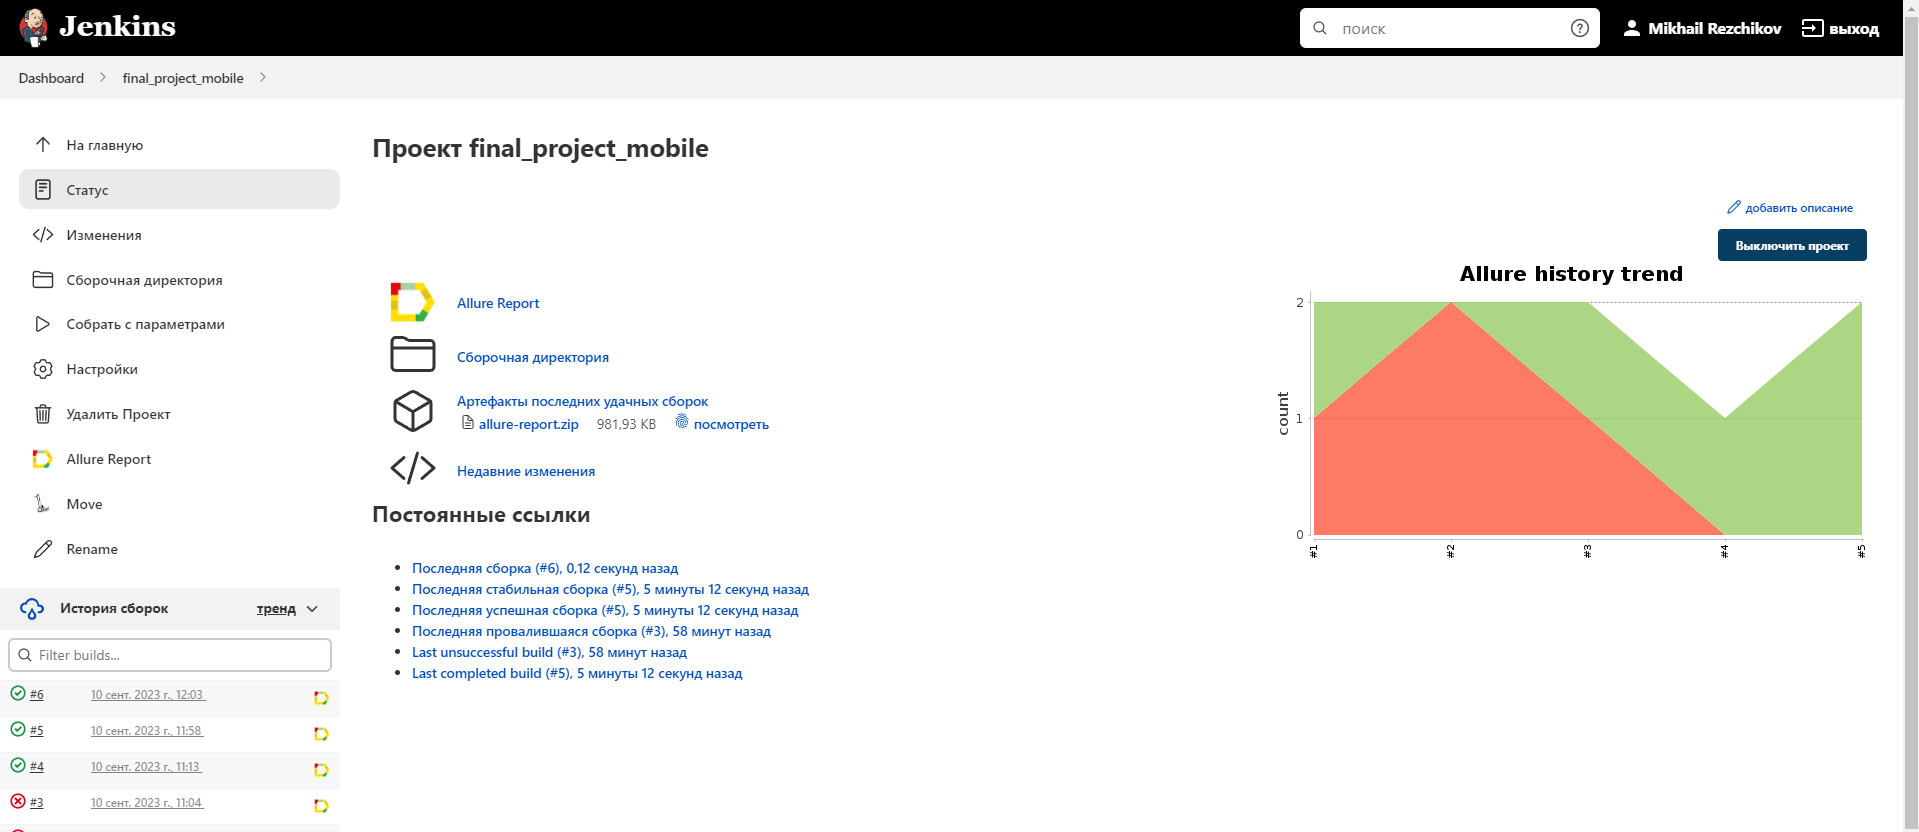
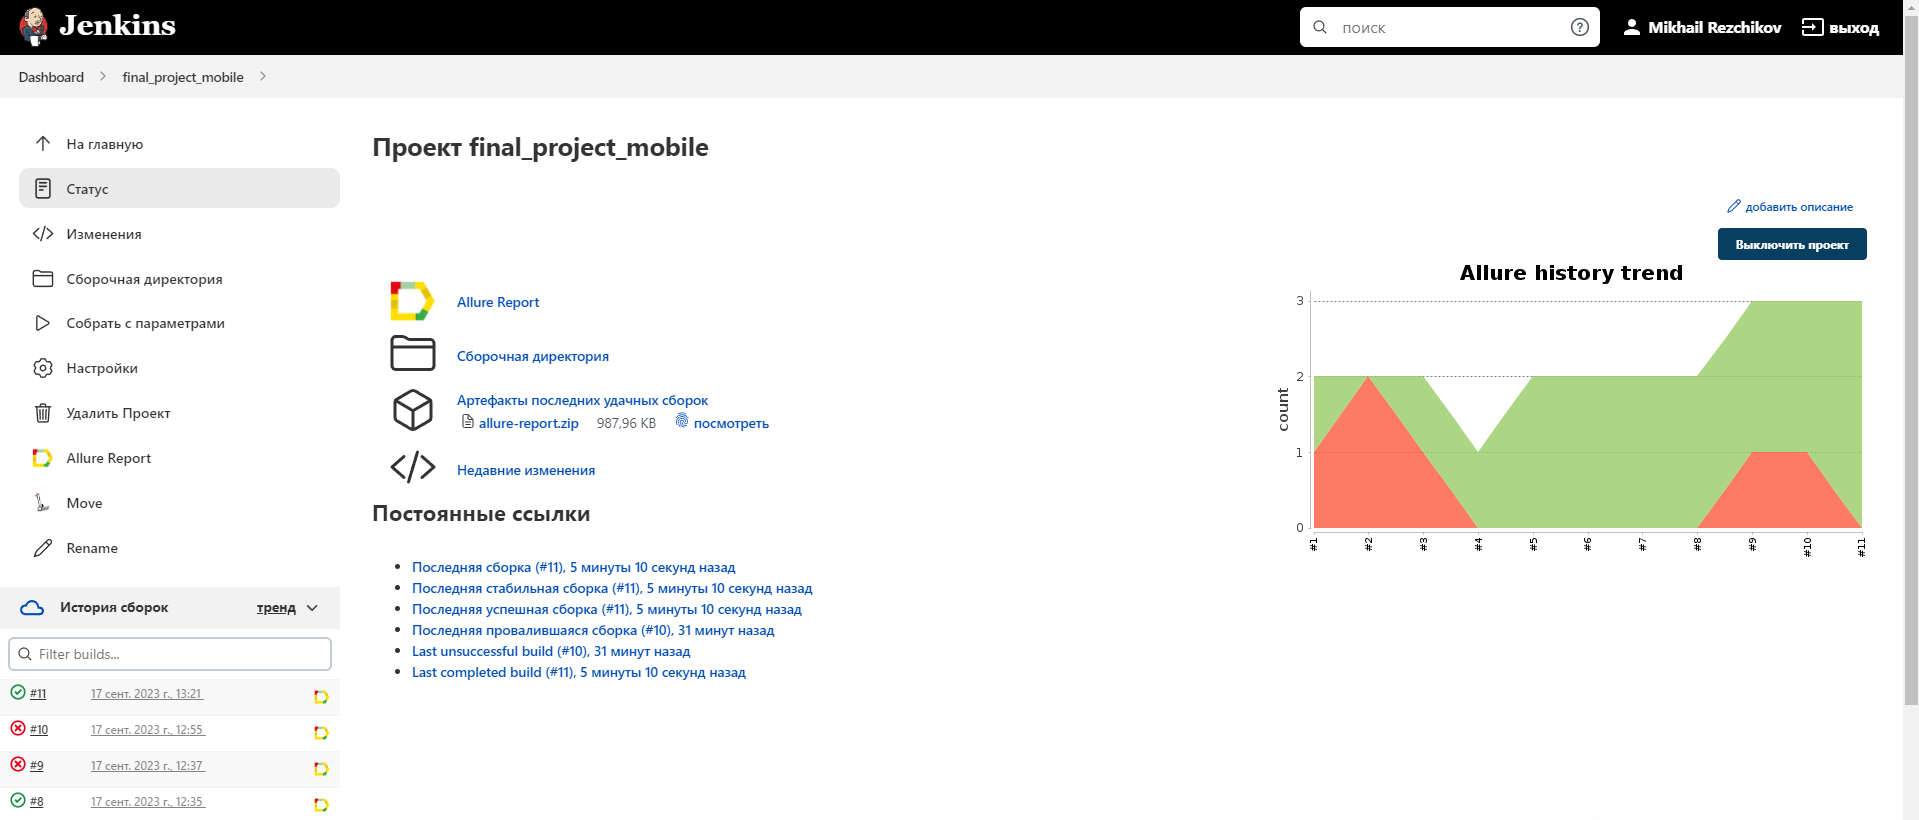
readme updated

diff --git a/README.md b/README.md
@@ -36,7 +36,7 @@ gradle ${PLATFORM}_test
 <img title="Jenkins Build" src="images/screens/Jenkins.png">
 </p>
 
-### Отчет в Allure report
+### Отчет в [Allure report](https://jenkins.autotests.cloud/job/final_project_mobile/11/allure/)
 #### Основная страница отчета
 <p align="center">
 <img title="Jenkins Build" src="images/screens/Allure-report.png">
